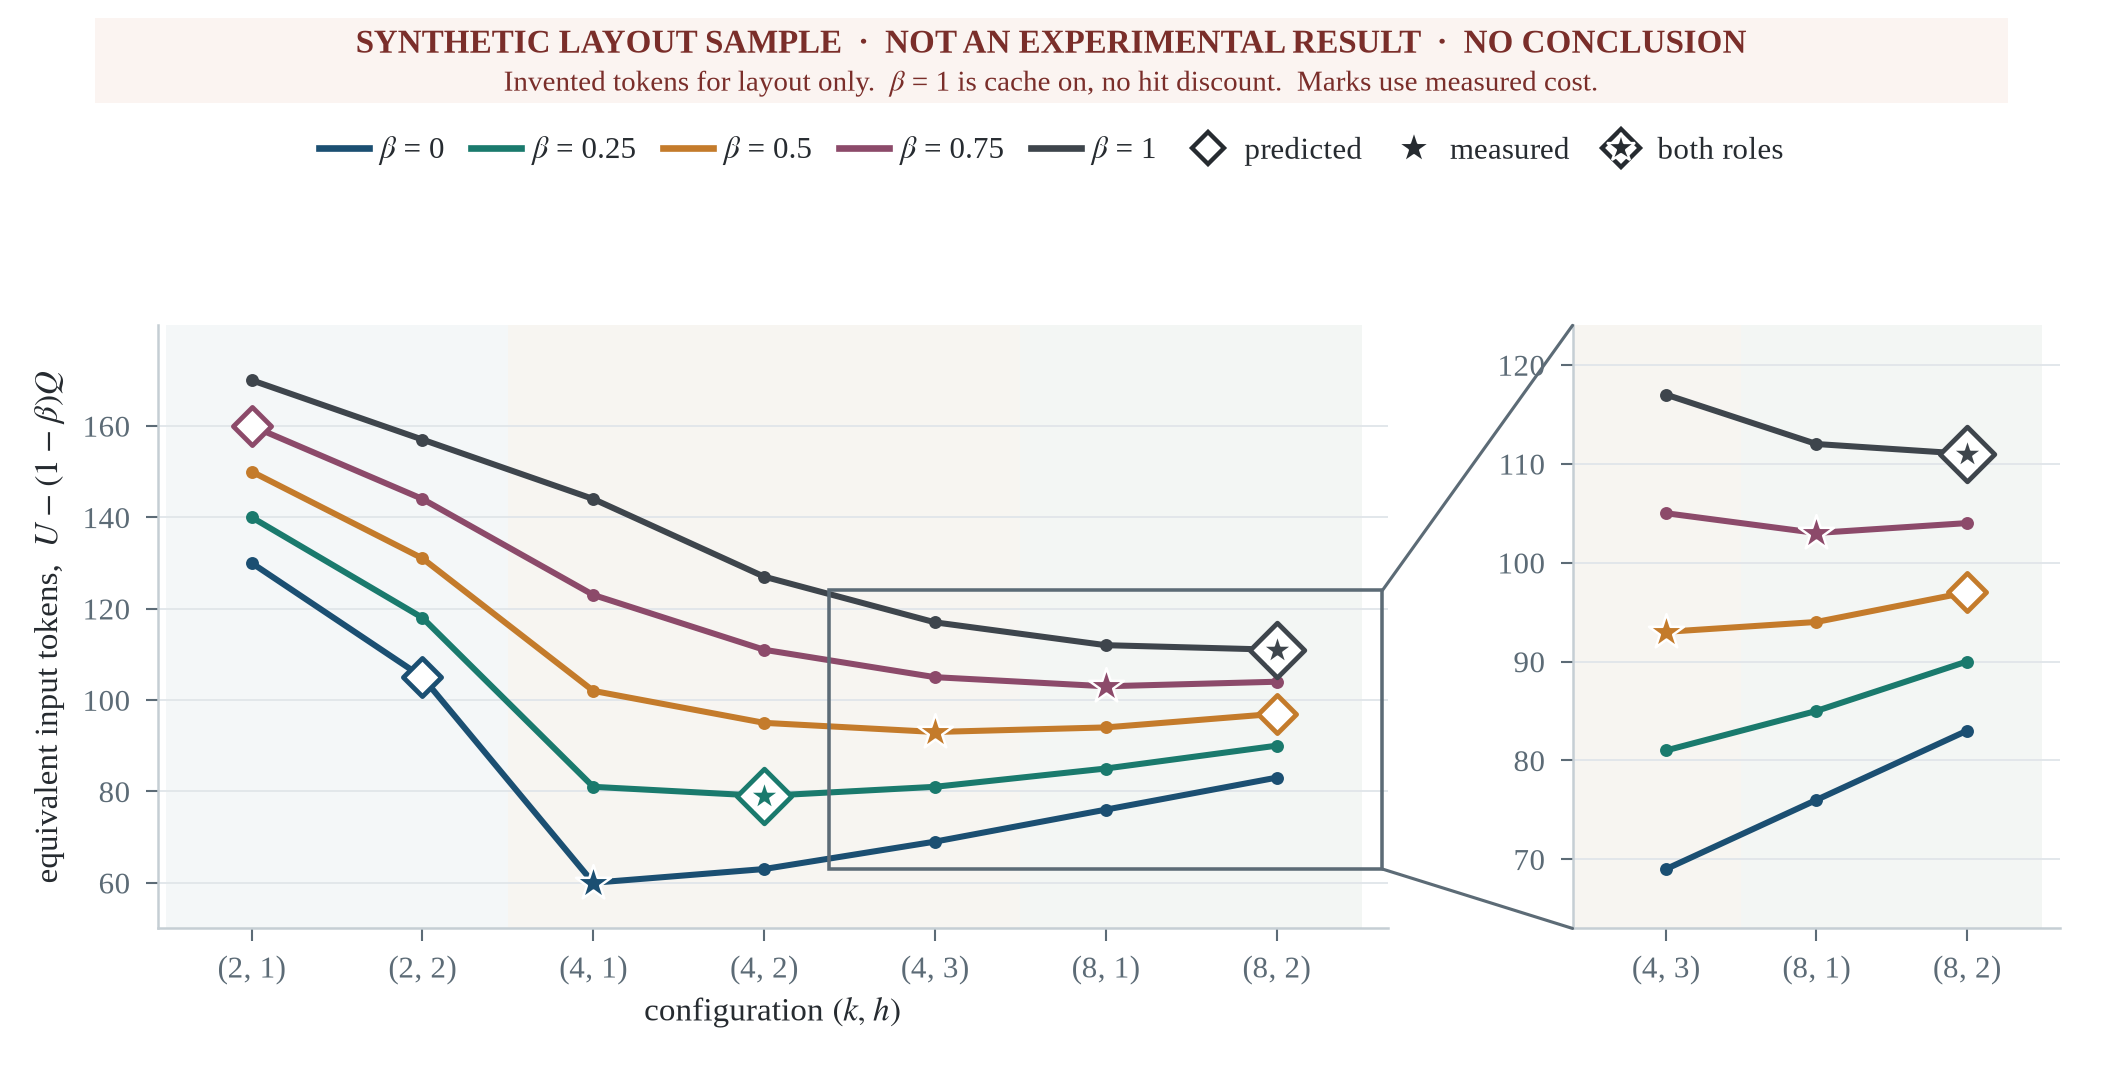
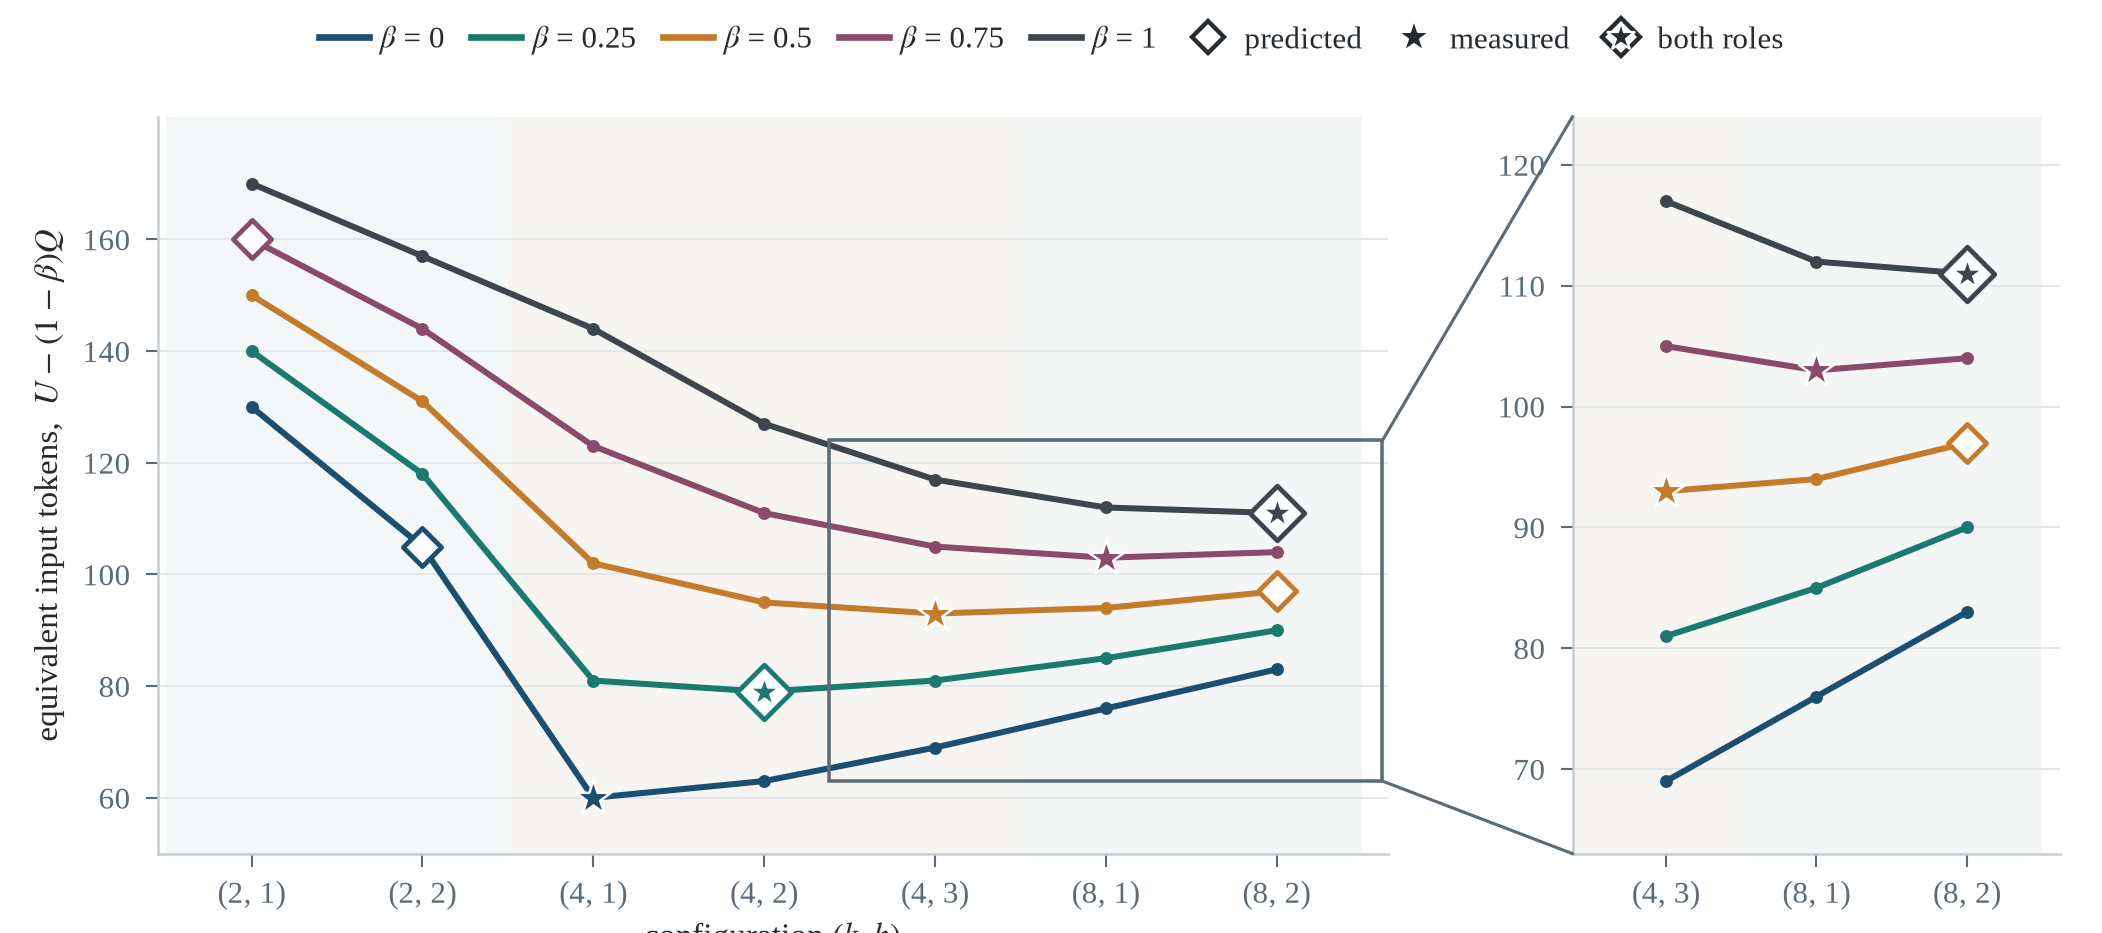
Tighten E4b header for paper insertion.
Drop the in-figure synthetic banner, move that disclosure into the TeX caption, and reclaim top margin so the axes grow while keeping 178 mm width and 7 pt+ labels.

diff --git a/recovery/e4b/plot_e4b.py b/recovery/e4b/plot_e4b.py
@@ -16,7 +16,7 @@ matplotlib.use("Agg")
 import matplotlib.pyplot as plt
 from matplotlib.legend_handler import HandlerBase
 from matplotlib.lines import Line2D
-from matplotlib.patches import ConnectionPatch, FancyBboxPatch, Rectangle
+from matplotlib.patches import ConnectionPatch, Rectangle
 
 HERE = Path(__file__).resolve().parent
 DATA = HERE / "e4b_beta.json"
@@ -24,15 +24,13 @@ PDF = HERE / "e4b-beta.pdf"
 PNG = HERE / "e4b-beta.png"
 
 WIDTH_MM = 178.0
-HEIGHT_MM = 92.0
+HEIGHT_MM = 79.0
 MM_TO_IN = 1.0 / 25.4
 
 INK = "#262B30"
 MUTED = "#5C6B76"
 FRAME = "#5C6B76"
 GRID = "#E1E6EA"
-WARN = "#7A2E2A"
-WARN_BG = "#FBF4F1"
 
 # Five series colors. Role is marker shape, not a second palette.
 SERIES = {
@@ -266,8 +264,8 @@ def build():
     fig = plt.figure(figsize=(WIDTH_MM * MM_TO_IN, HEIGHT_MM * MM_TO_IN), dpi=300)
     fig.patch.set_facecolor("white")
 
-    main = fig.add_axes((0.075, 0.145, 0.585, 0.555))
-    zoom = fig.add_axes((0.748, 0.145, 0.232, 0.555))
+    main = fig.add_axes((0.075, 0.085, 0.585, 0.79))
+    zoom = fig.add_axes((0.748, 0.085, 0.232, 0.79))
 
     all_y = [y for series in curves.values() for y in series]
     main_lo, main_hi = min(all_y) - 10, max(all_y) + 12
@@ -357,7 +355,7 @@ def build():
         line_handles + [pred_handle, meas_handle, both_handle],
         [h.get_label() for h in line_handles] + ["predicted", "measured", "both roles"],
         loc="upper center",
-        bbox_to_anchor=(0.50, 0.885),
+        bbox_to_anchor=(0.50, 0.985),
         ncol=8,
         frameon=False,
         fontsize=7.5,
@@ -366,37 +364,6 @@ def build():
         columnspacing=0.85,
         borderaxespad=0,
         handler_map={both_handle: OverlayHandler()},
-    )
-
-    banner = FancyBboxPatch(
-        (0.045, 0.905),
-        0.91,
-        0.078,
-        boxstyle="square,pad=0",
-        transform=fig.transFigure,
-        facecolor=WARN_BG,
-        edgecolor="none",
-        mutation_aspect=0.3,
-    )
-    fig.add_artist(banner)
-    fig.text(
-        0.50,
-        0.958,
-        "SYNTHETIC LAYOUT SAMPLE  ·  NOT AN EXPERIMENTAL RESULT  ·  NO CONCLUSION",
-        ha="center",
-        va="center",
-        fontsize=8,
-        fontweight="bold",
-        color=WARN,
-    )
-    fig.text(
-        0.50,
-        0.922,
-        r"Invented tokens for layout only.  $\beta$ = 1 is cache on, no hit discount.  Marks use measured cost.",
-        ha="center",
-        va="center",
-        fontsize=7,
-        color=WARN,
     )
 
     fig.savefig(PDF, dpi=300)

diff --git a/recovery/e4b/e4b-beta.tex b/recovery/e4b/e4b-beta.tex
@@ -4,14 +4,14 @@
 \begin{figure*}[t]
   \centering
   \includegraphics[width=178mm]{e4b-beta.pdf}
-  \caption{Synthetic layout sample for offline $\beta$ repricing of one invented On-cold observation.
-  These tokens are not a measurement, and the figure supports no conclusion.
+  \caption{\textbf{Synthetic layout sample---not an experimental result; no conclusion.}
+  Invented On-cold tokens for layout only.
   Five curves show $U-(1-\beta)Q$ for $\beta = 0$, $0.25$, $0.5$, $0.75$, and $1$
   on one shared categorical $(k,h)$ axis, displayed in $k$-then-$h$ order.
   The segments join those configurations; the axis is not a continuous $(k,h)$ scale.
   $\beta = 1$ stays cache-on and applies no hit discount.
   A diamond is the predicted configuration and a star is the measured minimum of that curve.
-  Both marks are drawn at the measured cost of the marked configuration.
+  Both marks are drawn at the measured cost of the marked configuration (not a predicted height).
   A star on a diamond means the two roles fall on the same configuration.
   The right panel repeats the framed categories with the same labels.
   Contract values $\beta = 0.1$ and $0.9$ are not drawn.}

diff --git a/recovery/e4b/NOTES.md b/recovery/e4b/NOTES.md
@@ -32,10 +32,8 @@
 
 ## 图上读到的标签
 
-178.00 mm × 92.00 mm 矢量 PDF。文字层里的标签是：
+178.00 mm × 79.00 mm 矢量 PDF。合成披露只写在 `e4b-beta.tex` caption，图内无海报横幅。文字层里的标签是：
 
-- 横幅：SYNTHETIC LAYOUT SAMPLE · NOT AN EXPERIMENTAL RESULT · NO CONCLUSION
-- 次行：Invented tokens for layout only. β = 1 is cache on, no hit discount. Marks use measured cost.
 - 图例：β = 0，β = 0.25，β = 0.5，β = 0.75，β = 1，predicted，measured，both roles
 - 主轴刻度：(2, 1) (2, 2) (4, 1) (4, 2) (4, 3) (8, 1) (8, 2)，以及 60 到 160
 - 纵轴：equivalent input tokens, U−(1−β)Q
